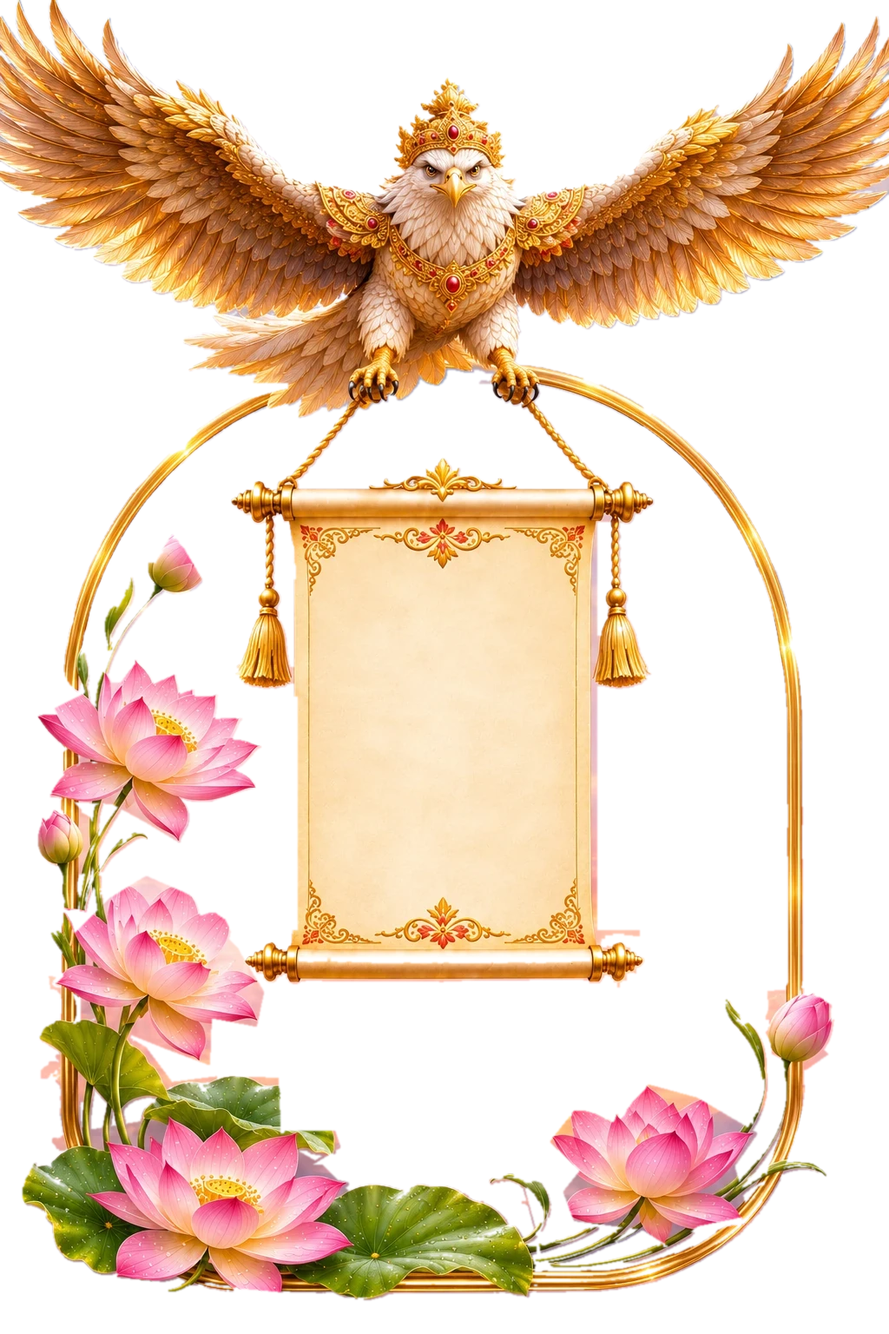
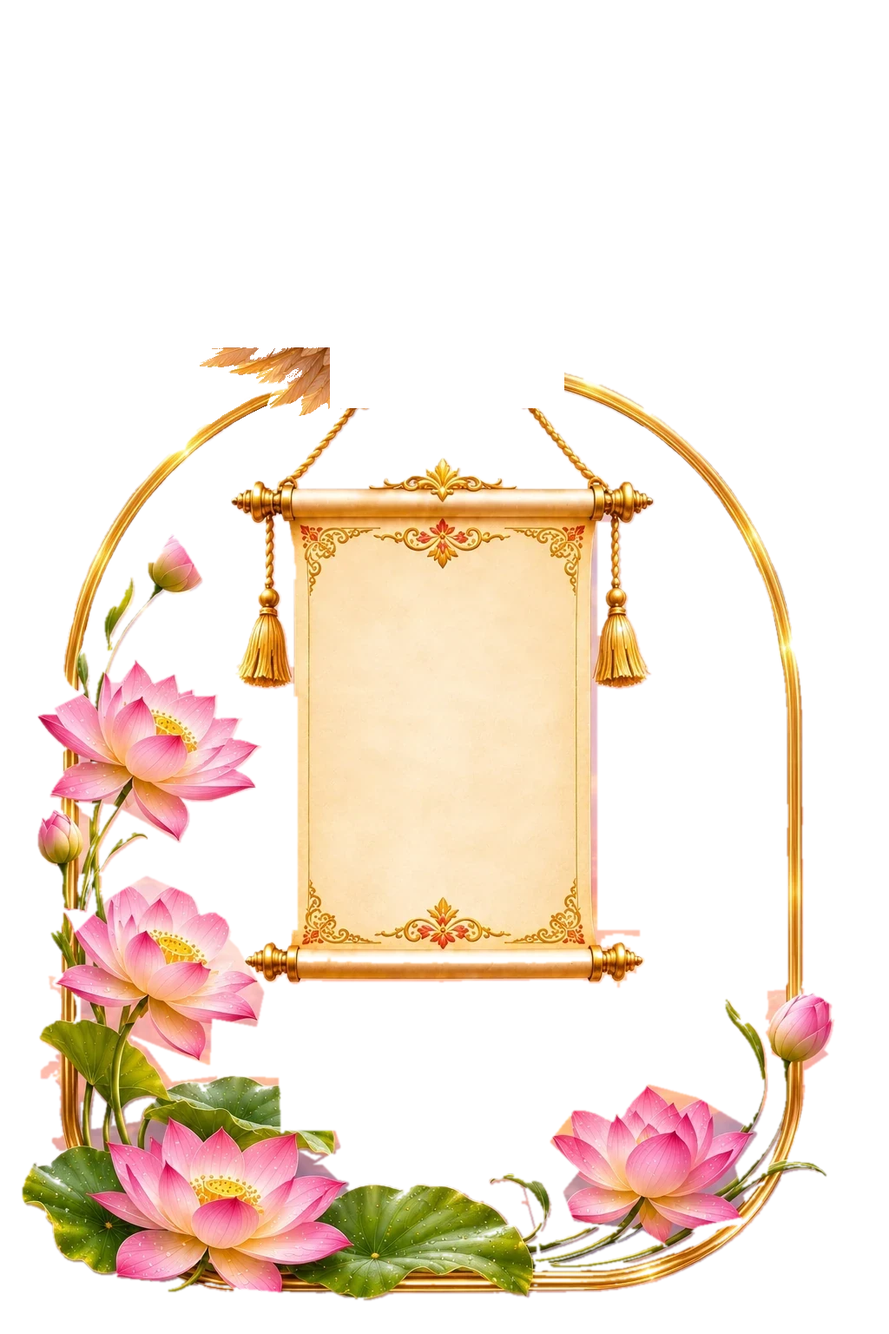
Ram & Sita walk in with Ram on both feet; sections blend softly; full Jatayu on the wishing wall; all-wishes royal scroll unrolls under Jatayu

Changed region(s): [[0.0, 0.0, 1.0, 0.3125]]

diff --git a/js/main.js b/js/main.js
@@ -873,6 +873,7 @@
     });
     tl.fromTo(track, { y: yAt(0) }, { y: yAt(0), duration: .01 })
       .fromTo('.events__head', { y: -30, opacity: 0 }, { y: 0, opacity: 1, duration: .5 })
+      .to('.events__seam', { opacity: 0, duration: .5 }, '<')
       .to({}, { duration: .2 });
     units.forEach((u, i) => {
       const L = $('.door--left', u), R = $('.door--right', u), light = $('.ev-window__light', u);
@@ -972,6 +973,62 @@
     const mine = store.get(KEY, []);
     const list = [...mine, ...CONFIG.seedWishes];
     let i = 0;
+    // "View all wishes": every blessing in a pop-up under Jatayu, each with its own lotus
+    const modal = $('#wishModal'), mList = $('#wishModalList'), vCount = $('#wishViewCount');
+    const LOTUS = ['assets/flowers/lotus-bloom-01.webp', 'assets/flowers/lotus-bloom-02.webp', 'assets/flowers/lotus-photo-bloom-01.webp'];
+    const countAll = () => { if (vCount) vCount.textContent = '(' + list.length + ')'; };
+    let lastFocus = null;
+    function openAll() {
+      mList.textContent = '';
+      list.forEach((w, k) => {
+        const li = document.createElement('li'); li.className = 'wish-modal__item';
+        const img = document.createElement('img'); img.src = LOTUS[k % LOTUS.length]; img.alt = ''; img.loading = 'lazy';
+        const body = document.createElement('div');
+        const p = document.createElement('p'); p.className = 'wish-modal__wish'; p.textContent = '\u201c' + w.wish + '\u201d';
+        const n = document.createElement('p'); n.className = 'wish-modal__name'; n.textContent = '\u2014 ' + w.name;
+        body.append(p, n); li.append(img, body); mList.appendChild(li);
+      });
+      $('#wishModalSub').textContent = list.length + (list.length === 1 ? ' blessing' : ' blessings') + ' for Ram & Sita';
+      lastFocus = document.activeElement;
+      modal.hidden = false; if (lenis) lenis.stop();
+      $('.wish-modal__close', modal).focus({ preventScroll: true });
+      if (!ANIM) return;
+      const stage = $('#wscrollStage'), bird = $('.wscroll__jatayu', modal), paper = $('#wscrollPaper'), rod = $('#wscrollBottom');
+      const travel = () => -paper.offsetHeight;
+      if (openTl) openTl.kill();
+      openTl = gsap.timeline()
+        .fromTo('.wish-modal__backdrop', { opacity: 0 }, { opacity: 1, duration: .45 })
+        // Jatayu flies down from the sky holding the rolled-up scroll
+        .fromTo(stage, { y: -innerHeight * .95, rotate: -4, opacity: 0 }, { y: 0, rotate: 0, opacity: 1, duration: 1.5, ease: 'power3.out' }, 0)
+        .fromTo(bird, { scaleY: 1 }, { scaleY: .86, duration: .2, yoyo: true, repeat: 7, ease: 'sine.inOut' }, 0)
+        .set(paper, { clipPath: 'inset(0 0 100% 0)' }, 0)
+        .set(rod, { y: travel }, 0)
+        .set(mList.children, { opacity: 0, y: 10 }, 0)
+        // then the scroll unrolls from top to bottom
+        .to(paper, { clipPath: 'inset(0 0 0% 0)', duration: 1.3, ease: 'power2.inOut' }, 1.45)
+        .to(rod, { y: 0, duration: 1.3, ease: 'power2.inOut' }, 1.45)
+        .to(mList.children, { opacity: 1, y: 0, stagger: .06, duration: .45, ease: 'power2.out' }, 2.45);
+    }
+    let openTl = null;
+    function closeAll() {
+      const end = () => { modal.hidden = true; if (lenis) lenis.start(); if (lastFocus) lastFocus.focus({ preventScroll: true }); };
+      if (!ANIM) return end();
+      const stage = $('#wscrollStage'), paper = $('#wscrollPaper'), rod = $('#wscrollBottom');
+      if (openTl) openTl.kill();
+      // roll the scroll back up, then Jatayu flies away
+      gsap.timeline({ onComplete: end })
+        .to(paper, { clipPath: 'inset(0 0 100% 0)', duration: .7, ease: 'power2.in' })
+        .to(rod, { y: -paper.offsetHeight, duration: .7, ease: 'power2.in' }, 0)
+        .to(stage, { y: -innerHeight, opacity: 0, duration: .8, ease: 'power2.in' }, .6)
+        .to('.wish-modal__backdrop', { opacity: 0, duration: .45 }, .9);
+    }
+    if (modal) {
+      document.body.appendChild(modal);  // outside the section so nothing clips it
+      countAll();
+      $('#wishViewAll').addEventListener('click', openAll);
+      modal.querySelectorAll('[data-close]').forEach(b => b.addEventListener('click', closeAll));
+      addEventListener('keydown', e => { if (e.key === 'Escape' && !modal.hidden) closeAll(); });
+    }
     // shrink the writing until it fits the scroll
     const fit = () => {
       let fs = 18;
@@ -1008,6 +1065,7 @@
       if (!w.name || !w.wish) { note.textContent = 'Please add your name and a blessing.'; return; }
       mine.unshift(w); store.set(KEY, mine.slice(0, 30));
       list.unshift(w);
+      countAll();
       form.reset();
       note.textContent = 'Your blessing is on its way to the scroll…';
       const lotus = $('.wish-form__lotus', form);
@@ -1067,7 +1125,7 @@
             .to(fly, { rotate: 0, scale: 1, duration: 3.6, ease: 'power2.out' }, 0)
             .add(() => { const r = env.getBoundingClientRect(); petalBurst(r.left + r.width / 2, r.top + r.height / 2, small() ? 12 : 20); }, 3.1);
         },
-        onLeaveBack: () => { if (flyIn) flyIn.kill(); if (!opened) start(); }
+        onLeaveBack: () => { if (flyIn) flyIn.kill(); resetAll(); start(); }
       });
     }
 
@@ -1093,7 +1151,33 @@
     }
     seal.addEventListener('click', openEnvelope);
 
-    // 3. accept: Hanuman, the hill, the envelope and the card fade away; Ram & Sita say thank you
+    // 3. accept: Hanuman, the hill, the envelope and the card fade away;
+    //    Ram walks in from the left, Sita from the right, and they meet in the middle to thank the guest
+    const ram = $('.rsvp-walker--ram'), sita = $('.rsvp-walker--sita');
+    const bodies = [$('.rsvp-walker__body', ram), $('.rsvp-walker__body', sita)];
+    let walkTl = null;
+    function walkIn() {
+      const off = Math.max(innerWidth * .62, 320);
+      gsap.set(ram, { x: -off, autoAlpha: 0 }); gsap.set(sita, { x: off, autoAlpha: 0 });
+      gsap.set('.rsvp-thanks__halo', { opacity: 0, scale: .4 });
+      gsap.set('#rsvpThanksTitle, #rsvpThanksText, #rsvpReplay', { opacity: 0, y: 16 });
+      const T = small() ? 3.4 : 3.8, step = .46, steps = Math.round(T / step) - 1;
+      walkTl = gsap.timeline()
+        .to([ram, sita], { autoAlpha: 1, duration: .9, ease: 'sine.out' }, 0)
+        // an unhurried, even pace that slows gently as they come close
+        .to([ram, sita], { x: 0, duration: T, ease: 'power1.out' }, 0)
+        // the soft rise and fall of each step, and a slight sway of the body
+        .fromTo(bodies, { y: 0 }, { y: -4, duration: step / 2, ease: 'sine.inOut', yoyo: true, repeat: steps * 2 - 1, stagger: .12 }, 0)
+        .fromTo(bodies, { rotate: -.6 }, { rotate: .6, duration: step, ease: 'sine.inOut', yoyo: true, repeat: steps - 1, stagger: .12 }, 0)
+        .to(bodies, { y: 0, rotate: 0, duration: .5, ease: 'sine.out' }, T - .3)
+        // they meet: a warm glow, the thank you, and petals
+        .to('.rsvp-thanks__halo', { opacity: 1, scale: 1, duration: 1.4, ease: 'power2.out' }, T - .5)
+        .to('#rsvpThanksTitle, #rsvpThanksText, #rsvpReplay', { y: 0, opacity: 1, stagger: .14, duration: .7, ease: 'power3.out' }, T - .1)
+        .add(() => {
+          const b = $('.rsvp-thanks__couple').getBoundingClientRect();
+          [0, 350, 700].forEach(d => setTimeout(() => petalBurst(b.left + b.width * (.3 + Math.random() * .4), b.top + b.height * .25, small() ? 16 : 24), d));
+        }, T - .2);
+    }
     function showDone(celebrate) {
       const swap = () => { gsap.set(scene, { autoAlpha: 0 }); done.hidden = false; };
       if (!ANIM || !celebrate) { swap(); return; }
@@ -1102,13 +1186,16 @@
       gsap.timeline()
         .to(scene, { autoAlpha: 0, scale: .94, duration: .8, ease: 'power2.in' }, .15)
         .add(swap)
-        .add(() => { const c = $('.rsvp-thanks__couple'); if (c.getBoundingClientRect().top < 70 || c.getBoundingClientRect().bottom > innerHeight) done.scrollIntoView({ behavior: 'smooth', block: 'center' }); })
-        .fromTo('.rsvp-thanks__couple', { y: 50, scale: .85, opacity: 0 }, { y: 0, scale: 1, opacity: 1, duration: 1.1, ease: 'back.out(1.4)' })
-        .fromTo('#rsvpThanksTitle, #rsvpThanksText, #rsvpReplay', { y: 16, opacity: 0 }, { y: 0, opacity: 1, stagger: .12, duration: .6, ease: 'power3.out' }, '-=.5')
-        .add(() => {
-          const b = done.getBoundingClientRect();
-          [0, 350, 700].forEach(d => setTimeout(() => petalBurst(b.left + b.width * (.3 + Math.random() * .4), b.top + b.height * .3, 26), d));
-        }, '<');
+        .add(() => { const c = $('.rsvp-thanks__couple'); if (c.getBoundingClientRect().top < 70 || done.getBoundingClientRect().bottom > innerHeight + 40) done.scrollIntoView({ behavior: 'smooth', block: 'center' }); })
+        .add(walkIn, '+=.25');
+    }
+    // back to the very beginning: Hanuman with the closed envelope
+    function resetAll() {
+      if (walkTl) walkTl.kill();
+      done.hidden = true; opened = false; stage.classList.remove('is-open');
+      gsap.set(done, { autoAlpha: 1 });
+      gsap.set(scene, { autoAlpha: 1, scale: 1 });
+      gsap.set(card, { autoAlpha: 0, x: 0, y: 0 }); gsap.set(flap, { rotateX: 0 }); gsap.set(letter, { yPercent: 0, autoAlpha: 1 }); gsap.set(seal, { autoAlpha: 1 });
     }
     $('#rsvpAccept').addEventListener('click', () => {
       store.set(KEY, { status: 'accept', at: new Date().toISOString() });
@@ -1117,18 +1204,13 @@
 
     // Replay: back to Hanuman with the closed envelope
     $('#rsvpReplay').addEventListener('click', () => {
-      const reset = () => {
-        done.hidden = true; opened = false; stage.classList.remove('is-open');
-        gsap.set(card, { autoAlpha: 0 }); gsap.set(flap, { rotateX: 0 }); gsap.set(letter, { yPercent: 0, autoAlpha: 1 }); gsap.set(seal, { autoAlpha: 1 });
-      };
-      if (!ANIM) { reset(); gsap.set(scene, { autoAlpha: 1, scale: 1 }); return; }
+      if (!ANIM) { resetAll(); return; }
       gsap.timeline()
         .to(done, { autoAlpha: 0, duration: .45, ease: 'power1.in' })
-        .add(reset).set(done, { autoAlpha: 1 })
+        .add(resetAll)
         .fromTo(scene, { autoAlpha: 0, scale: .94 }, { autoAlpha: 1, scale: 1, duration: .9, ease: 'power2.out' });
     });
-    const saved = store.get(KEY, null);
-    if (saved && saved.status === 'accept') { opened = true; showDone(false); }
+    // the answer is remembered, but every visit starts again with Hanuman flying in
   }
 
 

diff --git a/css/style.css b/css/style.css
@@ -1141,7 +1141,9 @@ html:not(.anim) .intro { display: none; }
 
 /* ---- Wishing wall: Jatayu's hanging scroll ---- */
 .wish-board { position: relative; width: min(500px, 90vw); aspect-ratio: 1024 / 1536; margin: 0 auto; }
-.wish-board__art { width: 100%; height: 100%; animation: board-sway 7s ease-in-out infinite; transform-origin: 50% 0; }
+.wish-board__sway { position: absolute; inset: 0; animation: board-sway 7s ease-in-out infinite; transform-origin: 50% 0; }
+.wish-board__art { width: 100%; height: 100%; }
+.wish-board__jatayu { position: absolute; left: .8%; top: 6.4%; width: 96.5%; pointer-events: none; filter: drop-shadow(0 12px 16px rgba(120, 40, 50, .25)); }
 @keyframes board-sway { 0%, 100% { rotate: 0deg; } 50% { rotate: .5deg; } }
 .wish-board__scroll { position: absolute; left: 35.5%; right: 35.5%; top: 43%; bottom: 34%; display: grid; place-items: center; text-align: center; overflow: hidden; animation: board-sway 7s ease-in-out infinite; transform-origin: 50% -150%; }
 .wish-board__text { width: 100%; }
@@ -1210,9 +1212,70 @@ html:not(.anim) .rsvp-stage.is-open .rsvp-invite { opacity: 1; visibility: visib
 /* Ram & Sita's thank you */
 .rsvp-thanks { position: absolute; inset: 0; z-index: 6; display: flex; flex-direction: column; align-items: center; justify-content: center; text-align: center; padding: 0 6%; }
 .rsvp-thanks[hidden] { display: none; }
-.rsvp-thanks__couple { position: relative; width: min(290px, 50%); }
-.rsvp-thanks__couple img { position: relative; width: 100%; filter: drop-shadow(0 18px 24px rgba(30, 0, 15, .5)); }
+/* Ram and Sita stand side by side, feet on the same line */
+.rsvp-thanks__couple { --h: clamp(250px, 44svh, 420px); position: relative; height: var(--h); width: calc(var(--h) * .83); display: flex; align-items: flex-end; justify-content: center; gap: 2%; }
+.rsvp-walker { position: relative; height: 100%; display: flex; align-items: flex-end; }
+.rsvp-walker__body { height: 100%; transform-origin: 50% 100%; will-change: transform; }
+.rsvp-walker--sita .rsvp-walker__body { height: 88%; }
+.rsvp-walker__body img { height: 100%; width: auto; max-width: none; display: block; filter: drop-shadow(0 16px 20px rgba(30, 0, 15, .45)); }
+.rsvp-walker__shadow { position: absolute; left: 50%; bottom: -6px; width: 70%; height: 16px; translate: -50% 0; border-radius: 50%; background: radial-gradient(closest-side, rgba(40, 0, 18, .45), transparent); }
+@media (max-width: 560px) { .rsvp-thanks__couple { --h: clamp(220px, 38svh, 320px); } }
 .rsvp-thanks__halo { position: absolute; left: 50%; top: 42%; width: 150%; aspect-ratio: 1; translate: -50% -50%; border-radius: 50%; background: radial-gradient(closest-side, rgba(255, 228, 160, .6), rgba(255, 180, 90, .2) 55%, transparent); animation: halo-breathe 4s ease-in-out infinite; }
 .rsvp-thanks__title { margin-top: 10px; font-family: var(--f-script); font-weight: 400; font-size: clamp(2.4rem, 5vw, 3.4rem); color: var(--gold-300); line-height: 1.1; text-shadow: 0 2px 14px rgba(40, 0, 20, .6); }
 .rsvp-thanks__text { max-width: 34ch; margin: 8px auto 0; font-style: italic; color: var(--ivory-100); line-height: 1.55; }
 .rsvp-thanks__replay { margin-top: 14px; color: var(--gold-300); }
+
+/* ---- every section melts softly into the one before it (no hard line between sections) ---- */
+:root { --seam: clamp(70px, 11vh, 120px); }
+main > section:not(:first-child):not(.events) {
+  margin-top: calc(-1 * var(--seam)); border-top: var(--seam) solid transparent; background-origin: border-box;
+  -webkit-mask-image: linear-gradient(to bottom, transparent 0, #000 var(--seam)); mask-image: linear-gradient(to bottom, transparent 0, #000 var(--seam));
+}
+/* the events section is pinned while it plays, so its top blends with a soft ivory veil that clears once it settles */
+.events__seam { position: absolute; left: 0; right: 0; top: 0; height: calc(var(--seam) * 1.6); z-index: 1; pointer-events: none; background: linear-gradient(to bottom, var(--ivory-100) 0%, rgba(251, 245, 230, .55) 45%, transparent 100%); }
+
+/* ---- Wishing wall: every blessing in one pop-up, under Jatayu ---- */
+.wish-viewall { display: flex; align-items: center; justify-content: center; gap: 10px; margin: 18px auto 0; padding: 12px 26px; border-radius: 999px; cursor: pointer;
+  font-family: var(--f-caps); font-size: .78rem; letter-spacing: .2em; text-transform: uppercase; color: var(--maroon-700);
+  background: rgba(255, 250, 240, .8); border: 1.5px solid var(--gold-500); box-shadow: 0 8px 20px -10px rgba(110, 20, 50, .45); transition: transform .25s, background .25s; }
+.wish-viewall:hover { transform: translateY(-2px); background: #fffaf0; }
+.wish-viewall svg { width: 18px; height: 18px; color: var(--gold-600); }
+.wish-viewall__count { font-family: var(--f-serif); letter-spacing: 0; color: var(--gold-700); }
+.wish-modal { position: fixed; inset: 0; z-index: 200; display: grid; place-items: center; padding: 16px; }
+.wish-modal[hidden] { display: none; }
+.wish-modal__backdrop { position: absolute; inset: 0; background: rgba(60, 4, 30, .62); backdrop-filter: blur(3px); -webkit-backdrop-filter: blur(3px); }
+.wish-modal__title { text-align: center; font-family: var(--f-display); font-weight: 600; font-size: clamp(1.6rem, 3vw, 2.1rem); color: var(--maroon-700); }
+.wish-modal__sub { text-align: center; font-family: var(--f-caps); font-size: .7rem; letter-spacing: .22em; text-transform: uppercase; color: var(--gold-700); margin: 4px 0 14px; }
+.wish-modal__list { list-style: none; margin: 0; padding: 4px 4px 6px; overflow-y: auto; overscroll-behavior: contain; display: grid; gap: 12px; scrollbar-width: thin; scrollbar-color: var(--gold-500) transparent; }
+.wish-modal__item { display: grid; grid-template-columns: 46px 1fr; gap: 12px; align-items: start; padding: 12px 14px; border-radius: 12px; background: rgba(255, 255, 255, .6); box-shadow: inset 0 0 0 1px rgba(184, 134, 43, .35); }
+.wish-modal__item img { width: 46px; height: 46px; object-fit: contain; filter: drop-shadow(0 3px 4px rgba(194, 24, 91, .25)); }
+.wish-modal__wish { font-style: italic; color: #5a2a1a; line-height: 1.45; }
+.wish-modal__name { margin-top: 4px; font-family: var(--f-caps); font-size: .68rem; letter-spacing: .18em; text-transform: uppercase; color: var(--gold-700); }
+.wish-modal__close { position: absolute; z-index: 5; top: -14px; right: -10px; width: 40px; height: 40px; border-radius: 50%; border: 1.5px solid var(--gold-500); background: radial-gradient(circle at 35% 30%, #a3213f, #6b0f24); color: #fff3cf; font-size: 1.6rem; line-height: 1; cursor: pointer; box-shadow: 0 0 0 3px rgba(255, 243, 207, .55), 0 8px 16px -4px rgba(40, 0, 15, .6); }
+
+/* the royal scroll pop-up: Jatayu holds it by two golden ropes; it unrolls from top to bottom */
+.wscroll-stage { --W: min(520px, 94vw, calc((100svh - 30px) / 1.67)); position: relative; width: var(--W); height: calc(var(--W) * 1.67); }
+.wscroll-stage__hover { position: absolute; inset: 0; animation: wscroll-hover 4.5s ease-in-out infinite; }
+@keyframes wscroll-hover { 0%, 100% { transform: translateY(0); } 50% { transform: translateY(-8px); } }
+.wscroll__ropes { position: absolute; inset: 0; width: 100%; height: 100%; overflow: visible; z-index: 1; }
+.wscroll__rope { fill: none; stroke: #a8761f; stroke-width: 4; stroke-linecap: round; vector-effect: non-scaling-stroke; }
+.wscroll__rope--twist { stroke: #f6d98c; stroke-width: 2; stroke-dasharray: 3 4; }
+.wscroll__jatayu { position: absolute; z-index: 3; left: 10%; top: 0; width: 80%; pointer-events: none; transform-origin: 50% 70%; filter: drop-shadow(0 14px 18px rgba(40, 0, 15, .45)); }
+.wscroll { position: absolute; z-index: 2; left: 0; top: calc(var(--W) * .42); width: var(--W); height: calc(var(--W) * 1.2514); }
+.wscroll__img { position: absolute; left: 0; width: var(--W); height: calc(var(--W) * 1.2514); max-width: none; pointer-events: none; }
+.wscroll__rod { position: absolute; left: 0; width: 100%; overflow: hidden; z-index: 2; filter: drop-shadow(0 6px 6px rgba(60, 20, 0, .35)); }
+.wscroll__rod--top { top: 0; height: 10.4%; }
+.wscroll__rod--bottom { top: 89.6%; height: 10.4%; }
+.wscroll__img--top { top: 0; }
+.wscroll__img--bottom { top: calc(var(--W) * -1.1213); }
+.wscroll__paper { position: absolute; left: 0; width: 100%; top: 10.4%; height: 79.2%; overflow: hidden; z-index: 1; }
+.wscroll__img--mid { top: calc(var(--W) * -.1301); }
+.wscroll__content { position: absolute; left: 18%; right: 18%; top: 4%; bottom: 3%; display: flex; flex-direction: column; color: var(--ink); }
+.wscroll__content .wish-modal__title { font-size: clamp(1.3rem, 2.6vw, 1.8rem); }
+.wscroll__content .wish-modal__sub { font-size: .62rem; margin: 2px 0 10px; }
+.wscroll__content .wish-modal__list { flex: 1; min-height: 0; gap: 9px; padding: 2px 2px 8px; }
+.wscroll__content .wish-modal__item { grid-template-columns: 36px 1fr; gap: 9px; padding: 9px 10px; background: rgba(255, 255, 255, .5); }
+.wscroll__content .wish-modal__item img { width: 36px; height: 36px; }
+.wscroll__content .wish-modal__wish { font-size: .95rem; line-height: 1.4; }
+@media (max-width: 560px) { .wscroll__content { left: 17%; right: 17%; } .wscroll__content .wish-modal__wish { font-size: .86rem; } .wscroll__content .wish-modal__item { grid-template-columns: 28px 1fr; gap: 7px; padding: 7px 8px; } .wscroll__content .wish-modal__item img { width: 28px; height: 28px; } }
+@media (max-width: 560px) { .wish-modal__close { right: 4px; top: -16px; width: 36px; height: 36px; font-size: 1.4rem; } }

diff --git a/index.html b/index.html
@@ -21,7 +21,7 @@
   <link rel="preload" as="image" href="assets/intro/hands-lotus-bloom.webp">
   <link rel="preload" as="image" href="assets/hero/hero-temple-river-night-wide.webp" media="(min-aspect-ratio: 1/1)">
   <link rel="preload" as="image" href="assets/hero/hero-temple-river-night.webp" media="(max-aspect-ratio: 1/1)">
-  <link rel="stylesheet" href="css/style.css?v=4.2.0">
+  <link rel="stylesheet" href="css/style.css?v=4.6.0">
 </head>
 <body>
 
@@ -567,6 +567,7 @@
      ===================================================== -->
 <section class="events" id="events" aria-labelledby="eventsTitle">
   <div class="events__stage">
+    <span class="events__seam" aria-hidden="true"></span>
     <div class="events__corridor" aria-hidden="true">
       <span class="events__chakra"></span>
       <!-- Hanuman rises from a blooming lotus and blesses every celebration -->
@@ -740,7 +741,10 @@
     </header>
     <!-- Jatayu holds a hanging scroll; it shows one blessing at a time -->
     <div class="wish-board" id="wishBoard">
-      <img class="wish-board__art" src="assets/wishes/jatayu-scroll-board.webp" alt="Jatayu, the divine eagle, holding a hanging scroll of blessings over a golden lotus frame">
+      <div class="wish-board__sway">
+        <img class="wish-board__art" src="assets/wishes/jatayu-scroll-board.webp" alt="A hanging scroll of blessings over a golden lotus frame">
+        <img class="wish-board__jatayu" src="assets/wishes/jatayu-full.webp" alt="Jatayu, the divine eagle, wings spread, holding the scroll">
+      </div>
       <div class="wish-board__scroll" id="wishScroll" aria-live="polite">
         <div class="wish-board__text" id="wishText">
           <p class="wish-board__wish" id="wishWish"></p>
@@ -767,6 +771,33 @@
         <button class="btn btn--maroon" type="submit"><svg><use href="#i-lotus"/></svg>Float my wish</button>
         <p class="form-note" id="wishNote" role="status"></p>
       </form>
+      <button type="button" class="wish-viewall" id="wishViewAll" aria-haspopup="dialog"><svg><use href="#i-lotus"/></svg>View all wishes <span class="wish-viewall__count" id="wishViewCount"></span></button>
+    </div>
+  </div>
+  <!-- all the blessings, under Jatayu's wings -->
+  <div class="wish-modal" id="wishModal" role="dialog" aria-modal="true" aria-labelledby="wishModalTitle" hidden>
+    <div class="wish-modal__backdrop" data-close></div>
+    <div class="wscroll-stage" id="wscrollStage">
+      <div class="wscroll-stage__hover">
+        <svg class="wscroll__ropes" viewBox="0 0 100 167" preserveAspectRatio="none" aria-hidden="true">
+          <path d="M44 28.6 L17 48.6 M55.5 28.6 L83 48.6" class="wscroll__rope"/>
+          <path d="M44 28.6 L17 48.6 M55.5 28.6 L83 48.6" class="wscroll__rope wscroll__rope--twist"/>
+        </svg>
+        <img class="wscroll__jatayu" src="assets/wishes/jatayu-full.webp" alt="Jatayu holding the scroll of blessings">
+        <div class="wscroll">
+          <div class="wscroll__paper" id="wscrollPaper">
+            <img class="wscroll__img wscroll__img--mid" src="assets/wishes/royal-scroll.webp" alt="">
+            <div class="wscroll__content">
+              <h3 class="wish-modal__title" id="wishModalTitle">All the blessings</h3>
+              <p class="wish-modal__sub" id="wishModalSub"></p>
+              <ol class="wish-modal__list" id="wishModalList" data-lenis-prevent></ol>
+            </div>
+          </div>
+          <div class="wscroll__rod wscroll__rod--top"><img class="wscroll__img wscroll__img--top" src="assets/wishes/royal-scroll.webp" alt=""></div>
+          <div class="wscroll__rod wscroll__rod--bottom" id="wscrollBottom"><img class="wscroll__img wscroll__img--bottom" src="assets/wishes/royal-scroll.webp" alt=""></div>
+          <button type="button" class="wish-modal__close" data-close aria-label="Close">&times;</button>
+        </div>
+      </div>
     </div>
   </div>
 </section>
@@ -814,7 +845,12 @@
 
       <!-- after accepting: Ram & Sita say thank you -->
       <div class="rsvp-thanks" id="rsvpDone" hidden>
-        <div class="rsvp-thanks__couple"><span class="rsvp-thanks__halo" aria-hidden="true"></span><img src="assets/hero/couple-ram-sita-3d-cutout.webp" alt="Ram and Sita thanking you"></div>
+        <!-- Ram walks in from the left and Sita from the right; they meet in the middle -->
+        <div class="rsvp-thanks__couple" role="img" aria-label="Ram and Sita walking towards each other and meeting">
+          <span class="rsvp-thanks__halo" aria-hidden="true"></span>
+          <div class="rsvp-walker rsvp-walker--ram"><span class="rsvp-walker__shadow"></span><div class="rsvp-walker__body"><img src="assets/rsvp/ram-walk.webp" alt=""></div></div>
+          <div class="rsvp-walker rsvp-walker--sita"><span class="rsvp-walker__shadow"></span><div class="rsvp-walker__body"><img src="assets/rsvp/sita-walk.webp" alt=""></div></div>
+        </div>
         <h3 class="rsvp-thanks__title" id="rsvpThanksTitle">Thank you for accepting!</h3>
         <p class="rsvp-thanks__text" id="rsvpThanksText">Your presence will make our celebration complete — we can’t wait to welcome you in Jaipur.</p>
         <button type="button" class="link-btn rsvp-thanks__replay" id="rsvpReplay">↺ Replay</button>
@@ -950,6 +986,6 @@
 <script src="https://cdnjs.cloudflare.com/ajax/libs/gsap/3.12.5/gsap.min.js"></script>
 <script src="https://cdnjs.cloudflare.com/ajax/libs/gsap/3.12.5/ScrollTrigger.min.js"></script>
 <script src="https://unpkg.com/lenis@1.1.13/dist/lenis.min.js"></script>
-<script src="js/main.js?v=4.2.0"></script>
+<script src="js/main.js?v=4.6.0"></script>
 </body>
 </html>

diff --git a/README.md b/README.md
@@ -4,6 +4,8 @@ A single-page, scroll-animated wedding invitation website themed on the Ramayana
 
 **Wedding date:** Saturday, 27 March 2027 · **Venue:** Rambagh Palace, Jaipur, Rajasthan
 
+> Every section melts softly into the one before it, so there is no hard line between sections.
+
 ## Run it locally
 
 Open a terminal in this folder and run:
@@ -30,8 +32,8 @@ To publish it, upload the whole folder to any static host (Netlify, Vercel, GitH
 | 07 | **Our Story** (`#story`) | A gold thread draws down the page. Four round badges, embroidered lotus on the front, turn over one by one to show the couple’s photos, each with one short line: Pushpa Vatika, Shiva Dhanush, Swayamvar, Saptapadi. Tap a badge to turn it again. |
 | 08 | **Our Families** (`#families`) | One big gold medallion per family with both parents together. As you scroll, a single gold line with a glowing tip draws each arched frame (up, over the arch, down and along the bottom), then the card fills in and five lotuses bloom on the bottom line. |
 | 09 | **Wedding Events** (`#events`) | "Through the Palace Doors", on a rani pink background with a slowly turning gold chakra. As the section comes into view a lotus blooms and Hanuman rises from it, blessing every celebration. One palace window per celebration. The doors open on a picture of the event, a details card pops up with a glowing Get directions button (Google Maps), then the doors close and the next window rises into place. |
-| 10 | **Wishing Wall** (`#wishes`) | The whole section sits in a soft pink sunset sky. Jatayu, the divine eagle, flies above a golden lotus frame holding a hanging scroll that shows one blessing at a time, with arrows to move through them (it also turns by itself every few seconds). Guests write a blessing below; the lotus carries it up to the scroll, petals fall, and the new blessing appears first. |
-| 11 | **RSVP** (`#rsvp`) | A golden arch on a rani pink sky with clouds. As the section comes into view, Hanuman flies slowly down from the sky and settles in the middle, holding a hill with a closed envelope sealed with an RSVP wax seal; a pointing hand says "Tap the seal". Tapping it breaks the seal, the flap opens, the letter rises and the invitation card ("Dear Ramayana Family, ...") comes out and settles below Hanuman, with the Accept the invitation button and a "Tap to accept" hand. On accepting, Hanuman, the hill, the envelope and the card fade away and Ram & Sita appear to say thank you, with petals and a Replay button. No sound plays here. |
+| 10 | **Wishing Wall** (`#wishes`) | The whole section sits in a soft pink sunset sky. Jatayu, the divine eagle, flies above a golden lotus frame holding a hanging scroll that shows one blessing at a time, with arrows to move through them (it also turns by itself every few seconds). Guests write a blessing below; the lotus carries it up to the scroll, petals fall, and the new blessing appears first. A "View all wishes" button brings Jatayu flying down holding a royal scroll by two golden ropes; the scroll unrolls from top to bottom to show every blessing, each with its own lotus, and closes by rolling back up. |
+| 11 | **RSVP** (`#rsvp`) | A golden arch on a rani pink sky with clouds. As the section comes into view, Hanuman flies slowly down from the sky and settles in the middle, holding a hill with a closed envelope sealed with an RSVP wax seal; a pointing hand says "Tap the seal". Tapping it breaks the seal, the flap opens, the letter rises and the invitation card ("Dear Ramayana Family, ...") comes out and settles below Hanuman, with the Accept the invitation button and a "Tap to accept" hand. On accepting, Hanuman, the hill, the envelope and the card fade away; Ram walks in from the left and Sita from the right with a gentle, natural pace, they meet in the middle, and the thank you appears with petals and a Replay button. Every visit starts fresh: scrolling back up above the section resets it, so Hanuman flies in again each time. No sound plays here. |
 | 12 | **Venue & Travel** (`#venue`) | Shri Ram Mandir in a gold arch, Rambagh Palace with Get directions and Open in Maps, then three cards: By Road & Bus, By Train & Air, Where to Stay. |
 | 13 | **Contact** (`#contact`) | Family contacts with call, WhatsApp and email buttons. |
 | 14 | **Thank You** (`#thank-you`) | Pink and gold fireworks over the temple, with a verse from Tulsidas. |
@@ -87,8 +89,8 @@ assets/
 │               lotus-zari-drawing.json (lotus drawing, stitched in gold and filled pink as it scrolls into view in Vadhu & Vara and Our Story)
 │               temple-flag-saffron (.png/.webp, Ram Mandir flag from your photo, on the Save the Date poles)
 ├── intro/      scene-portrait · scene-wide (.webp, the opening background) · layer-sita · layer-sita-end · layer-ram · layer-blossom · layer-feather (.webp, the moving pieces) · hands-lotus-bud · hands-lotus-bloom (your two source pictures)
-├── rsvp/       hanuman-flying-hill.webp (Hanuman with the hill), rsvp-arch-bg.webp (the RSVP background)
-├── wishes/     jatayu-scroll-board.webp (the Wishing Wall board), wishes-bg-sky.webp (its sky background)
+├── rsvp/       hanuman-flying-hill.webp (Hanuman with the hill), rsvp-arch-bg.webp (the RSVP background), ram-walk.webp & sita-walk.webp (the thank-you walk)
+├── wishes/     jatayu-scroll-board.webp (the Wishing Wall board), jatayu-full.webp (Jatayu, full wings), royal-scroll.webp (the all-wishes scroll), wishes-bg-sky.webp (its sky background)
 ├── story/      lotus-embroidery (.png/.webp, badge front) · story-couple-train · story-couple-promise · story-couple-temple · story-couple-sunset (.webp, badge backs)
 └── effects/    sparkle-gold · particles-gold · light-rays · firework-gold · firework-pink
 ```
